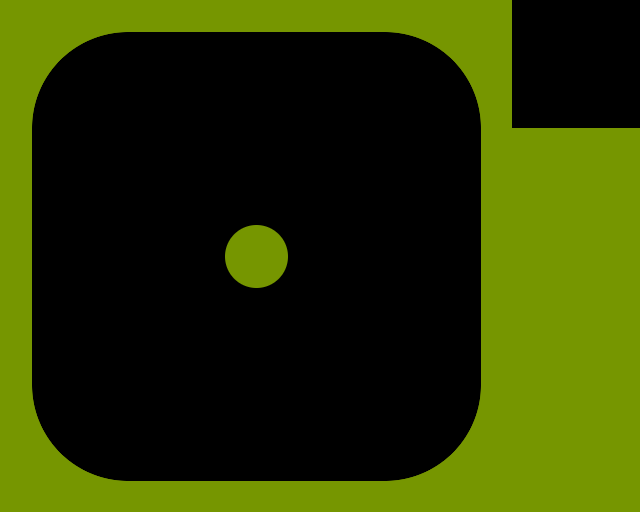
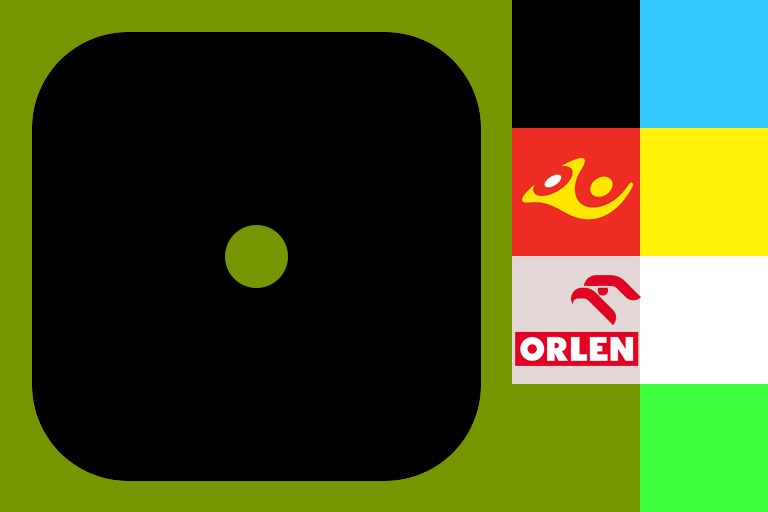
kurier v2
handle colision and other changes

diff --git a/kurier.py b/kurier.py
@@ -1,41 +1,42 @@
-from __future__ import division, print_function, unicode_literals
+##from __future__ import division, print_function, unicode_literals
 
 # This code is so you can run the samples without installing the package
-import sys
-import os
-import time
-sys.path.insert(0, os.path.join(os.path.dirname(__file__), '..'))
+##import sys
+##import os
+##import time
+##sys.path.insert(0, os.path.join(os.path.dirname(__file__), '..'))
+##
+##testinfo = "s, q"
+##tags = "tiles, Driver"
 
-testinfo = "s, q"
-tags = "tiles, Driver"
+##pyglet.resource.path.append(pyglet.resource.get_script_home())
+##pyglet.resource.reindex()
 
 import pyglet
 from pyglet.window import key
-
-pyglet.resource.path.append(pyglet.resource.get_script_home())
-pyglet.resource.reindex()
-
 import cocos
-from cocos import tiles, actions, layer
+from cocos import tiles, actions, layer, collision_model as cm
+
+##global
+speeed = 666
+collision_manager = cm.CollisionManagerBruteForce() #menager kolizji
+orlenColl = cm.CollisionManagerBruteForce() #menager kolizji dla stacji paliw
+x = 0
+##/global
 
 class DriveCar(actions.Driver):
     def step(self, dt):
-        # handle input and move the car
+        orlen = set(orlenColl.known_objs())
+        global x 
+                    
+        collisions = set(collision_manager.objs_colliding(self.target))
+        if collisions is not None:
+            if orlen.intersection(collisions): #jesli z ktoras ze stacji wystepuje kolizja
+                print("Witamy na stacji!" + str(x))
+                x += 1
+                        
+        self.target.cshape.center = self.target.position #aktualizacja pozycji Cshape
 
-        if keyboard[key.RIGHT]:
-            self.target.rotation = 90
-            self.target.speed = 100
-        if keyboard[key.LEFT]:
-            self.target.rotation = -90
-            self.target.speed = 100
-        if keyboard[key.UP]:
-            self.target.rotation = 0
-            self.target.speed = 100
-        if keyboard[key.DOWN]:
-            self.target.rotation = 180
-            self.target.speed = 100
-        if keyboard[key.SPACE]: self.target.speed = 0
-        
         super(DriveCar, self).step(dt)
         scroller.set_focus(self.target.x, self.target.y)
 
@@ -43,31 +44,66 @@ def main():
     global keyboard, scroller
     from cocos.director import director
     director.init(width=800, height=600, autoscale=False, resizable=True)
+    
+    petrol = tiles.load('road-map.tmx')['petrol']
+    for i in range(2): #ustawienie kolizji dla stacji paliw
+        petrol.objects[i].x = petrol.objects[i].x+64
+        petrol.objects[i].y = petrol.objects[i].y+64
+        petrol.objects[i].cshape = cm.AARectShape(
+            petrol.objects[i].position,
+            petrol.objects[i].width//2,
+            petrol.objects[i].height//2
+        )
+        orlenColl.add(petrol.objects[i])
+        collision_manager.add(petrol.objects[i])
 
     car_layer = layer.ScrollableLayer()
     car = cocos.sprite.Sprite('car.png')
     car_layer.add(car)
-    car.position = (200, 100)
-    car.do(DriveCar())
+    car.position = (3584, 1280)
+    car.cshape = cm.AARectShape(
+        car.position,
+        car.width//2,
+        car.height//2
+    )
+    collision_manager.add(car) #dodanie auta do managera kolizji
 
     scroller = layer.ScrollingManager()
     test_layer = tiles.load('road-map.tmx')['map0']
     scroller.add(test_layer)
     scroller.add(car_layer)
+    scroller.do(actions.ScaleTo(.25, 0.5))
+    
+    car.do(DriveCar())##DRIVE    
 
     main_scene = cocos.scene.Scene(scroller)
 
     keyboard = key.KeyStateHandler()
     director.window.push_handlers(keyboard)
 
-    def on_key_press(key, modifier):
+    def on_key_press(key, modifier):#obsluga klawiatury
         if key == pyglet.window.key.Z:
-            if scroller.scale == 0.75:
-                scroller.do(actions.ScaleTo(1, 2))
+            if scroller.scale == 0.25:
+                scroller.do(actions.ScaleTo(1, 0.5))
             else:
-                scroller.do(actions.ScaleTo(.75, 2))
+                scroller.do(actions.ScaleTo(.25, 0.5))
         elif key == pyglet.window.key.D:
             test_layer.set_debug(True)
+        elif key == pyglet.window.key.RIGHT:
+            car.rotation = 90
+            car.speed = speeed
+        elif key == pyglet.window.key.LEFT:
+            car.rotation = -90
+            car.speed = speeed
+        elif key == pyglet.window.key.UP:
+            car.rotation = 0
+            car.speed = speeed
+        elif key == pyglet.window.key.DOWN:
+            car.rotation = 180
+            car.speed = speeed
+        elif key == pyglet.window.key.SPACE:
+            car.speed = 0
+
     director.window.push_handlers(on_key_press)
 
     director.run(main_scene)
